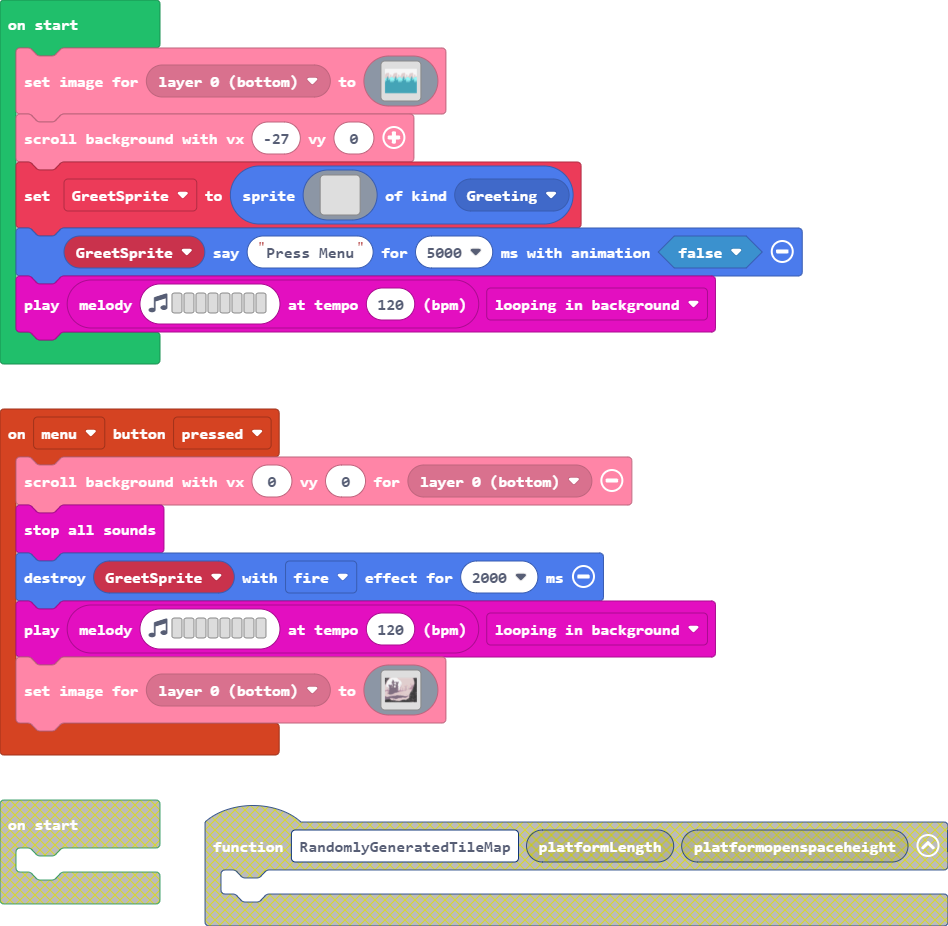
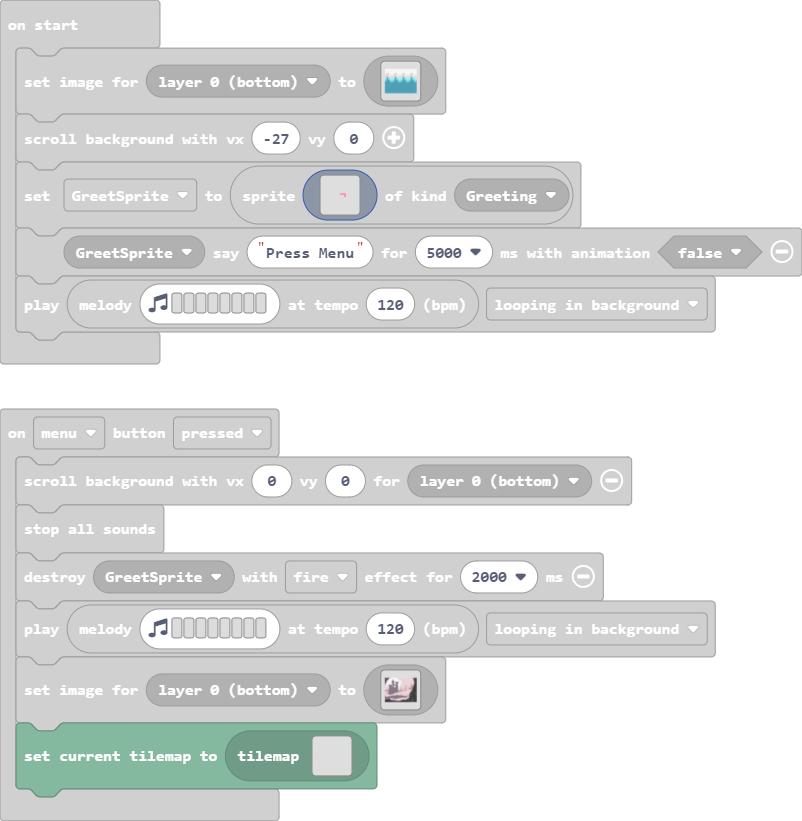
Update pxt.json, main.blocks, main.ts, images.g.jres, images.g.ts, tilemap.g.jres, tilemap.g.ts

diff --git a/tilemap.g.ts b/tilemap.g.ts
@@ -1,0 +1,43 @@
+// Auto-generated code. Do not edit.
+namespace myTiles {
+    //% fixedInstance jres blockIdentity=images._tile
+    export const transparency16 = image.ofBuffer(hex``);
+    //% fixedInstance jres blockIdentity=images._tile
+    export const tile1 = image.ofBuffer(hex``);
+
+    helpers._registerFactory("tilemap", function(name: string) {
+        switch(helpers.stringTrim(name)) {
+            case "level1":
[1 lines of base64/hex data omitted]
+...............................................................................................................................................................................................................................................................
+...............................................................................................................................................................................................................................................................
+...............................................................................................................................................................................................................................................................
+...............................................................................................................................................................................................................................................................
+...............................................................................................................................................................................................................................................................
+...............................................................................................................................................................................................................................................................
+...............................................................................................................................................................................................................................................................
+...............................................................................................................................................................................................................................................................
+222............................................................................................................................................................................................................................................................
+...............................................................................................................................................................................................................................................................
+...............................................................................................................................................................................................................................................................
+...............................................................................................................................................................................................................................................................
+...............................................................................................................................................................................................................................................................
+...............................................................................................................................................................................................................................................................
+...............................................................................................................................................................................................................................................................
+...............................................................................................................................................................................................................................................................
+`, [myTiles.transparency16,sprites.dungeon.floorDarkDiamond], TileScale.Sixteen);
+        }
+        return null;
+    })
+
+    helpers._registerFactory("tile", function(name: string) {
+        switch(helpers.stringTrim(name)) {
+            case "transparency16":return transparency16;
+            case "myTile":
+            case "tile1":return tile1;
+        }
+        return null;
+    })
+
+}
+// Auto-generated code. Do not edit.

diff --git a/images.g.ts b/images.g.ts
@@ -1,0 +1,44 @@
+// Auto-generated code. Do not edit.
+namespace myImages {
+
+    helpers._registerFactory("image", function(name: string) {
+        switch(helpers.stringTrim(name)) {
+            case "image1":
+            case "myImage":return img`
+. . . 8 8 8 8 8 8 8 8 8 . . . . 
+. 8 8 8 8 8 8 8 8 8 8 8 8 8 . . 
+. 8 8 8 f f f f f f f 8 8 8 . . 
+. 8 8 f 5 5 5 5 5 5 4 f 8 8 . . 
+. 8 8 f 4 5 5 5 5 4 f f 8 8 . . 
+. 8 8 f f 4 5 5 4 f f f 8 8 . . 
+. 8 8 f f f f 1 f f f f 8 8 . . 
+. 8 8 f f f 4 5 4 f f f 8 8 . . 
+. 8 8 f f 4 5 5 5 4 f f 8 8 . . 
+. 8 8 f 4 5 5 5 5 5 4 f 8 8 . . 
+. . 8 8 f f f f f f f 8 8 . . . 
+. . . 8 8 8 8 8 8 8 8 8 . . . . 
+. . . . 8 8 8 8 8 8 8 . . . . . 
+. . . . . 8 8 8 8 8 . . . . . . 
+. . . . . . 8 8 8 . . . . . . . 
+. . . . . . . 8 . . . . . . . . 
+`;
+        }
+        return null;
+    })
+
+    helpers._registerFactory("animation", function(name: string) {
+        switch(helpers.stringTrim(name)) {
+
+        }
+        return null;
+    })
+
+    helpers._registerFactory("song", function(name: string) {
+        switch(helpers.stringTrim(name)) {
+
+        }
+        return null;
+    })
+
+}
+// Auto-generated code. Do not edit.

diff --git a/main.ts b/main.ts
@@ -128,6 +128,7 @@ controller.menu.onEvent(ControllerButtonEvent.Pressed, function () {
         fffffffffffffffffffffffffffffffffffffffffffffffffffffffffffffffffffffffffffffffffffffffffffffffffffffffffffffffffffffffffffffbffffbffffdfffcddcfffffffffffffffff
         fffffffffffffffffffffffffffffffffbffffffbffffffffffffffffffffffbfcffffcfffffffffffffffcffffffffffffffffffffffffffffffffffffffffffffffffffffdddffffffffffccffffff
         `)
+    tiles.loadMap(tiles.createMap(tilemap`level1`))
 })
 let GreetSprite: Sprite = null
 scroller.setLayerImage(scroller.BackgroundLayer.Layer0, img`
@@ -261,8 +262,8 @@ GreetSprite = sprites.create(img`
     . . . . . . . . . . . . . . . . 
     . . . . . . . . . . . . . . . . 
     . . . . . . . . . . . . . . . . 
-    . . . . . . . . . . . . . . . . 
-    . . . . . . . . . . . . . . . . 
+    . . . . . . . . 3 3 3 . . . . . 
+    . . . . . . . . . . 3 . . . . . 
     . . . . . . . . . . . . . . . . 
     . . . . . . . . . . . . . . . . 
     . . . . . . . . . . . . . . . . 
